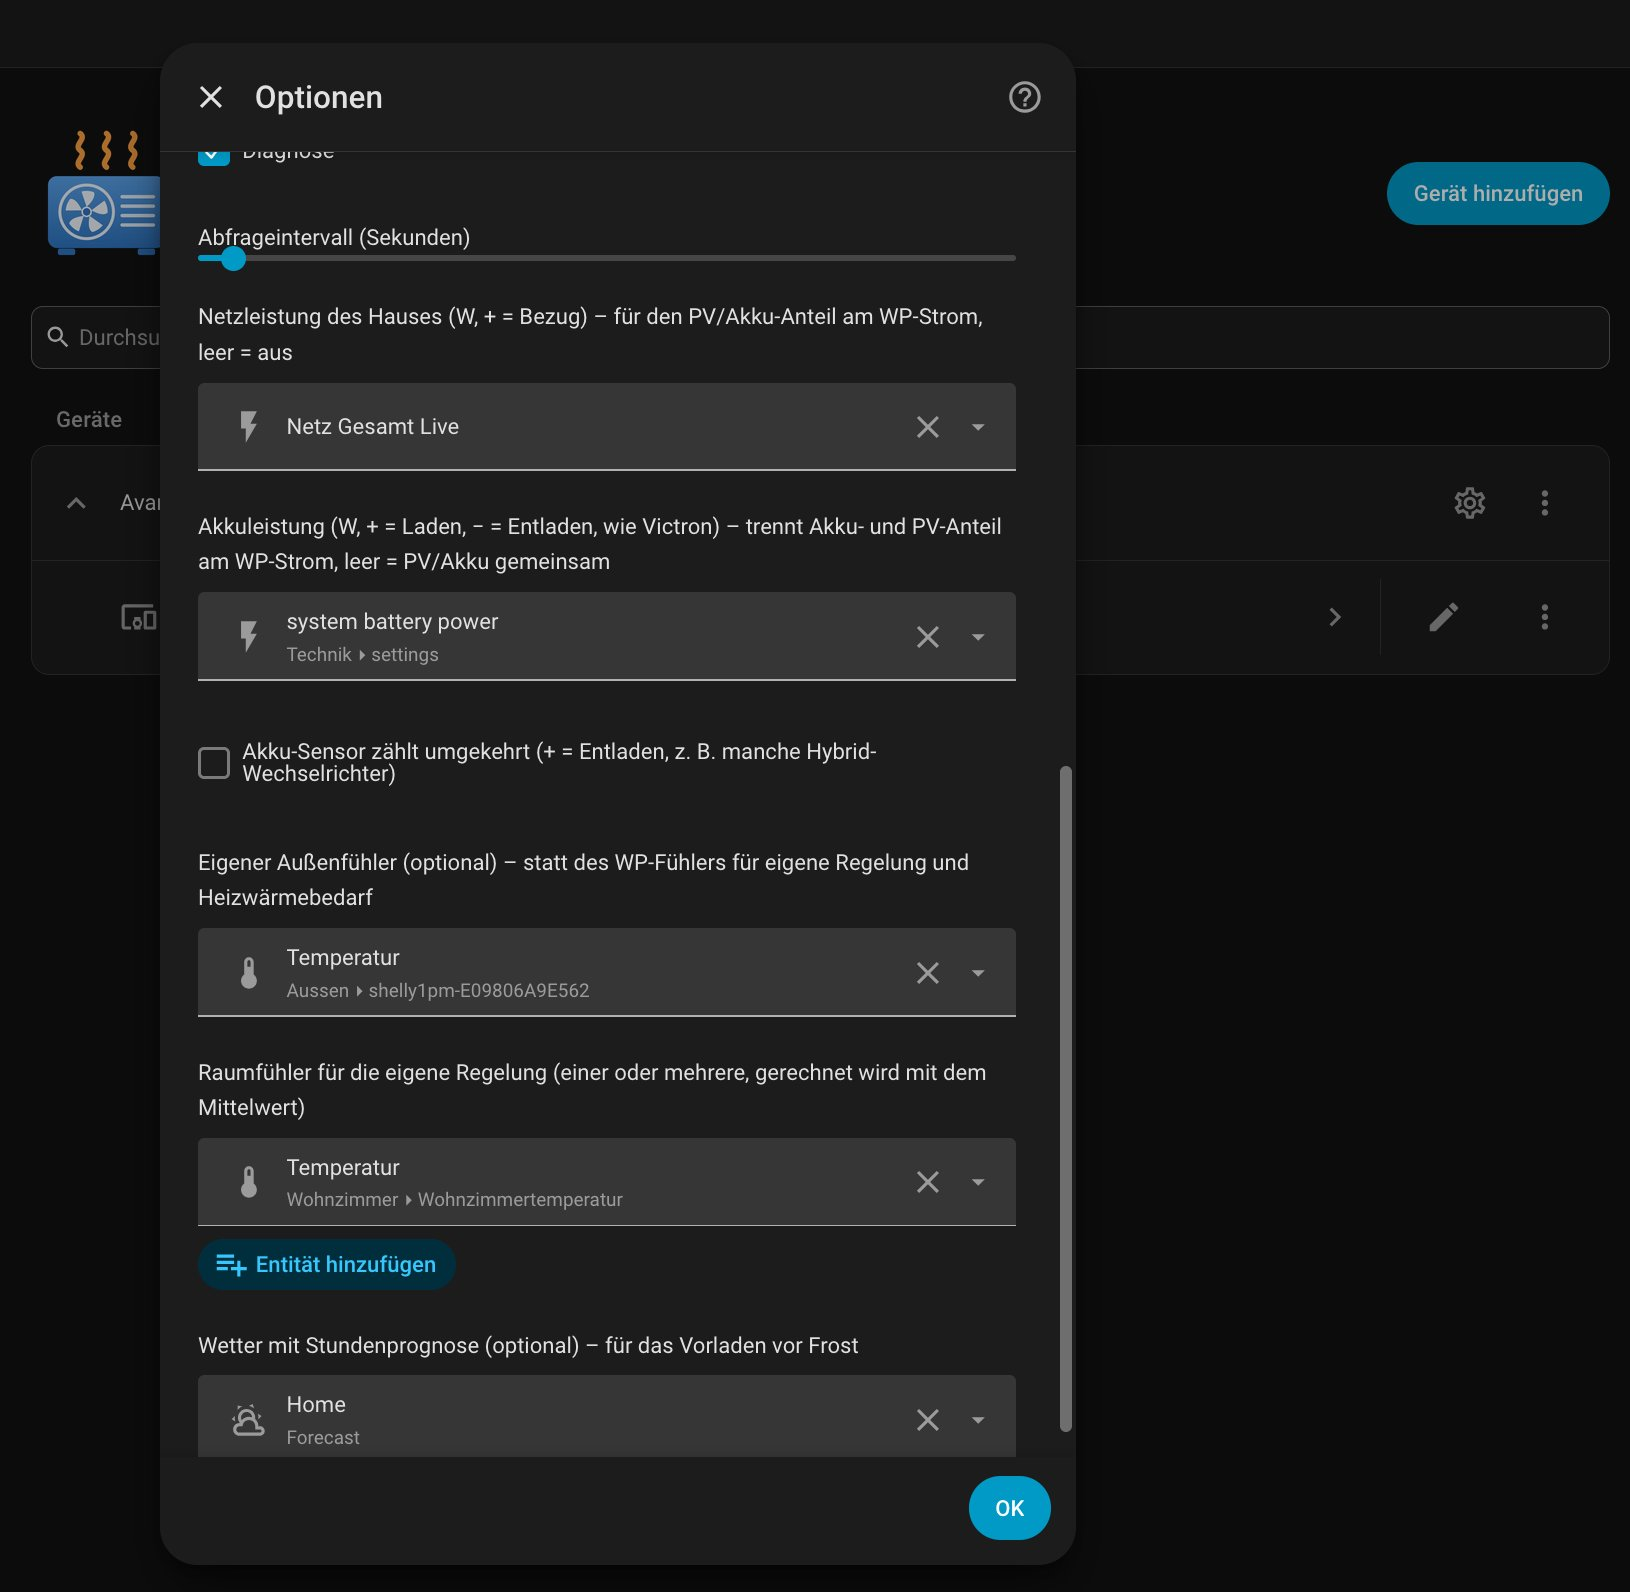
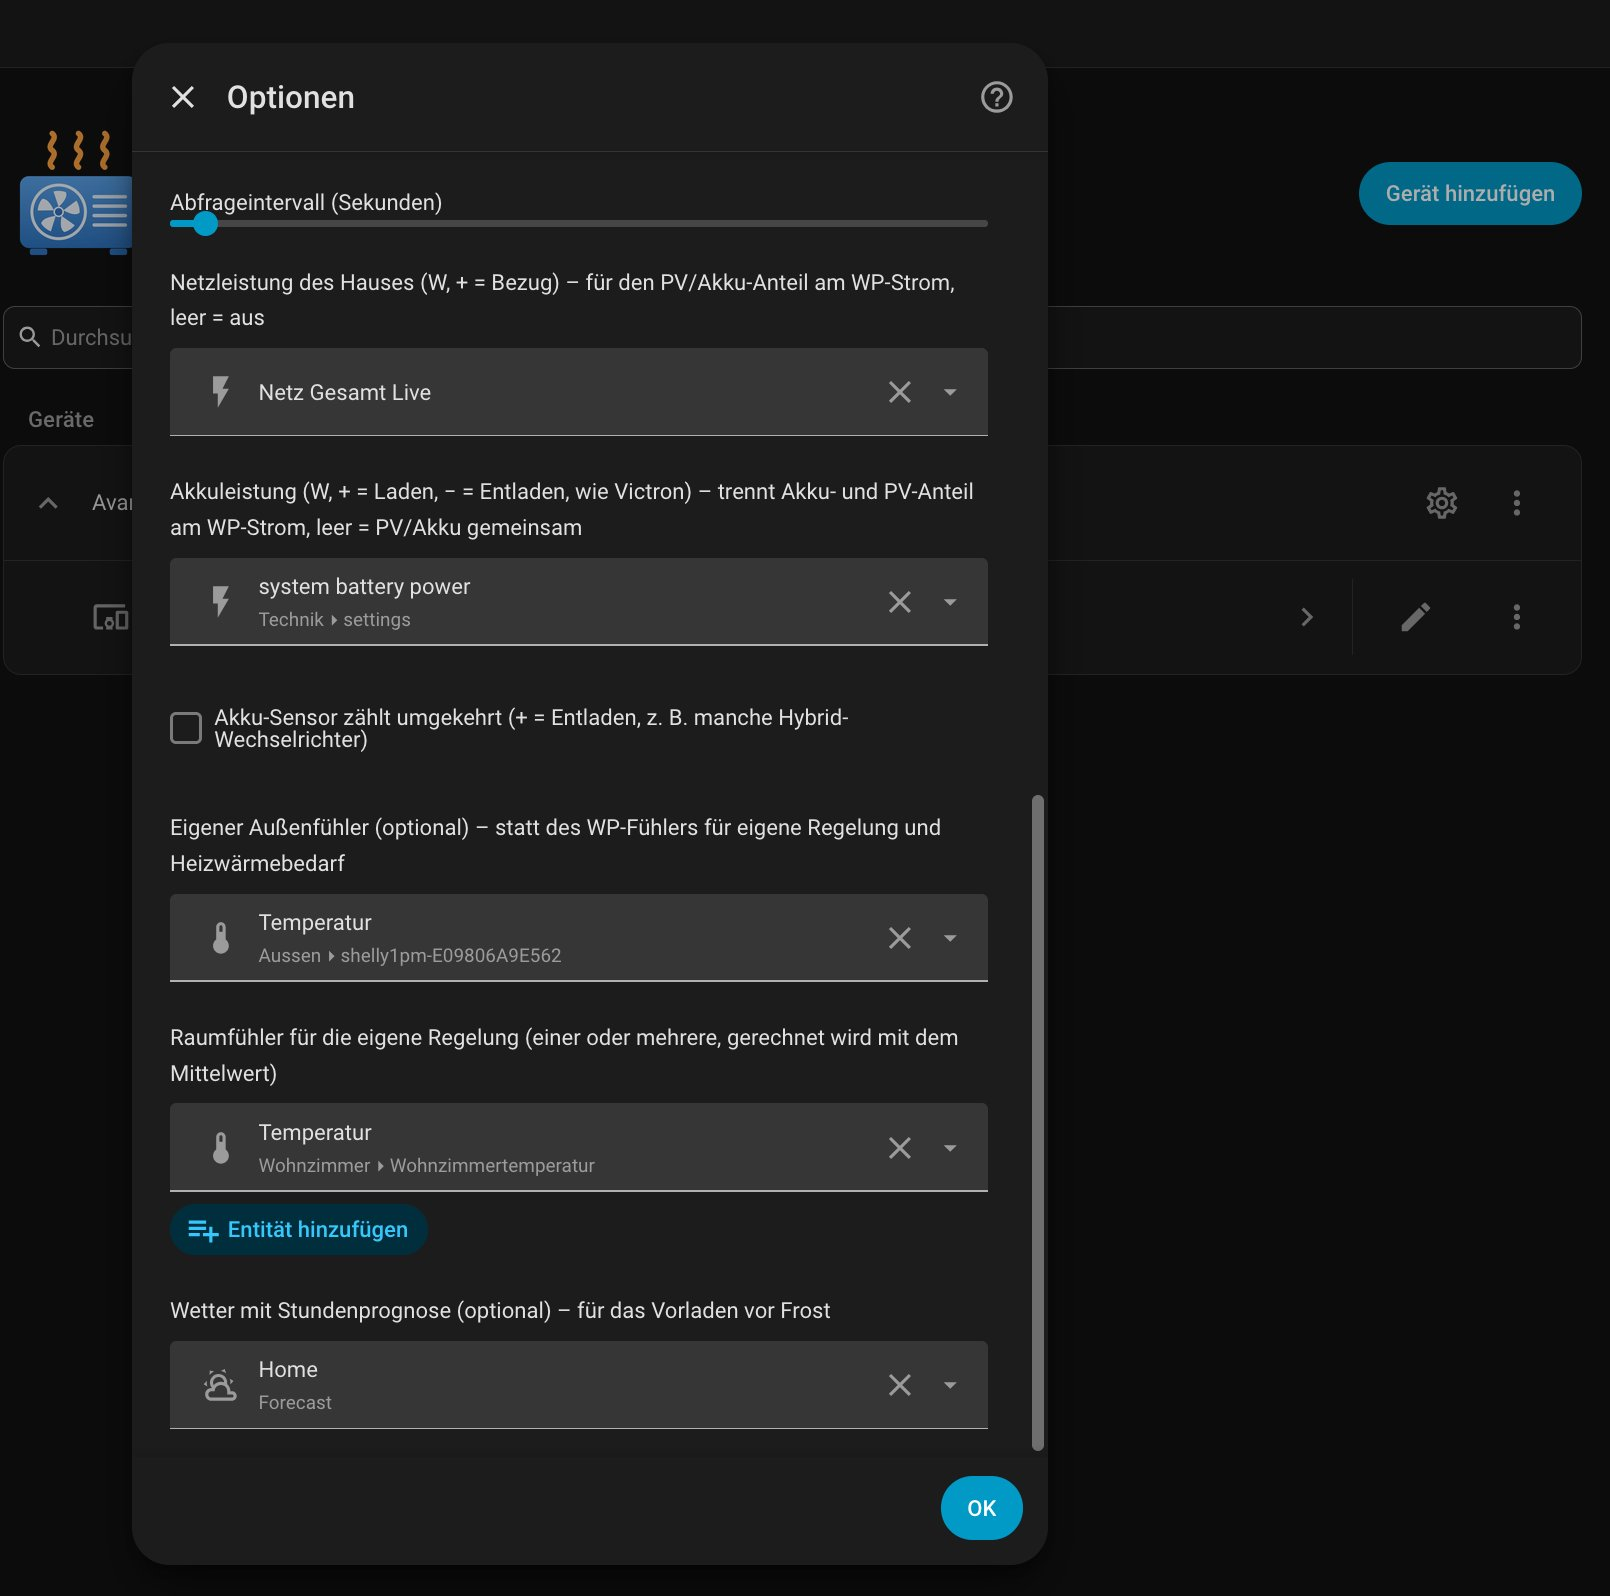
README: neue Screenshots der Optionen (Seiten im Dashboard, Fühler und Wetter)

diff --git a/README.md b/README.md
@@ -201,7 +201,7 @@ Den Ordner `custom_components/avarma` aus diesem Repository nach `<config>/custo
 | **Wetter mit Stundenprognose** | *Optional.* Wetter-Entität (z. B. `weather.forecast_home`) für das **Vorladen vor Frost**. |
 | **Akku-Sensor zählt umgekehrt** | Einschalten, wenn dein Akku-Sensor beim **Entladen positiv** ist (bei manchen Hybrid-Wechselrichtern so). Prüfen: abends ohne Sonne, wenn der Akku das Haus versorgt, muss der Sensor ohne Schalter **negativ** sein. |
 
-| Optionen (Teil 1) | Optionen (Teil 2: Fühler und Wetter) |
+| Optionen (Teil 1: Code, Push, Uhr, Dashboard, Seiten) | Optionen (Teil 2: Netz, Akku, Fühler, Wetter) |
 |---|---|
 | <img src="docs/images/ha-optionen.jpg" width="380" alt="Optionen der Integration"> | <img src="docs/images/ha-optionen-regelung.jpg" width="380" alt="Optionen: Fühler und Wetter"> |
 
